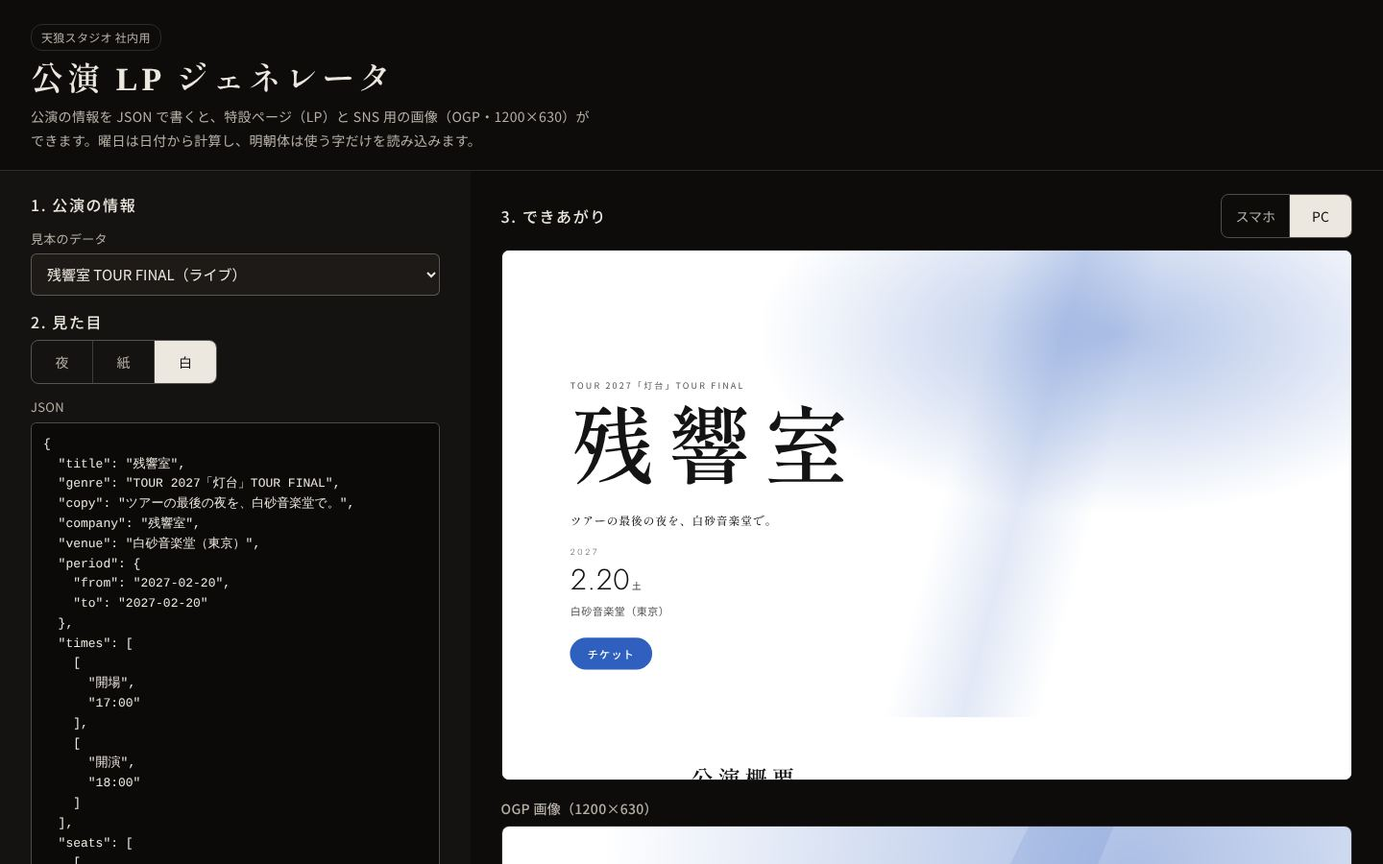
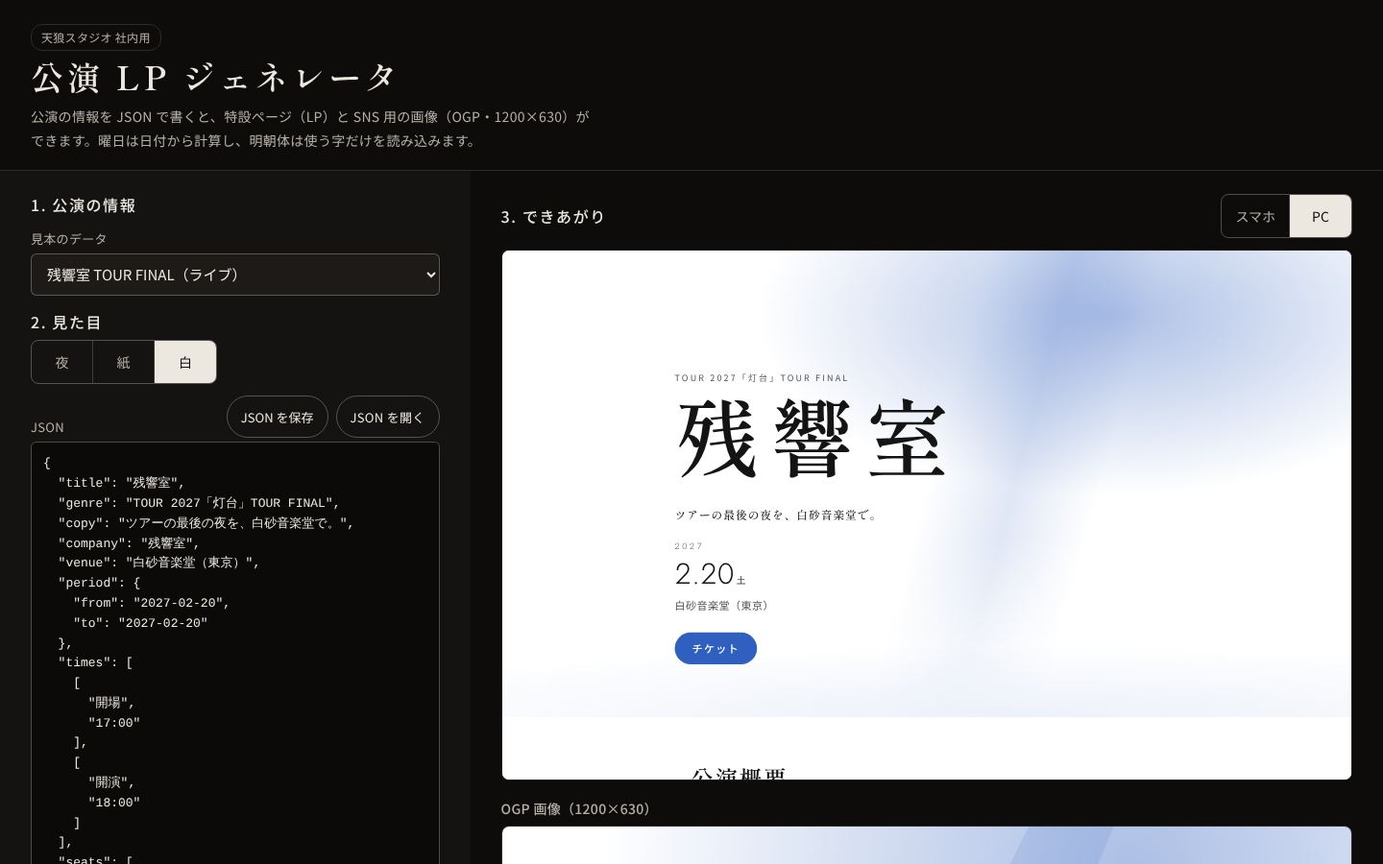
S02-10：審査1回目の指摘を反映（明朝のサブセットに英数字を入れる、長い題を OGP で2行に、長い名前のはみ出し、下書きの保存と JSON の保存・読み込み、ticket_url・url・access・contact、光の筋のフェードとスクロール連動）
Claude-Session: https://claude.ai/code/session_01BwmUGTgfPEj1Tu5124aDtq

diff --git a/studio/projects/S02-10-lpgen/site/app.js b/studio/projects/S02-10-lpgen/site/app.js
@@ -13,6 +13,7 @@ const KEYS = [
   ['title', '必須。公演名'], ['kana', '読み（題の上に小さく）'], ['genre', '種類・回数など'], ['copy', '一行のコピー'], ['story', 'あらすじ（段落は改行2つ）'],
   ['company', '必須。主催・団体'], ['venue', '必須。劇場'], ['period', '必須。{"from":"YYYY-MM-DD","to":"YYYY-MM-DD"}。曜日は自動'],
   ['times', '[["平日","19:00"], …]'], ['seats', '[["席種","料金"], …]'], ['sale', '一般発売日 YYYY-MM-DD'], ['cast', '[["名前","役"], …]'], ['credits', '[["役割","名前"], …]'],
+  ['ticket_url', 'チケット購入先の URL（https://…）。ないときはページ内のチケットの節へ'], ['url', 'このページを置く URL（https://…/）。og:url と og:image を自動で入れる'], ['access', '劇場の住所・行き方'], ['contact', '問い合わせ先'],
   ['accent', '差し色 #RRGGBB（背景との明暗比 3 以上）'], ['note', '注記（架空・販売の有無など）'],
 ];
 // 項目の一覧は開いたときだけ作る（閉じているあいだは中身を持たない）
@@ -39,51 +40,66 @@ function check(src, theme) {
   const p = D.period || {}, a = parseDate(p.from), b = parseDate(p.to);
   if (!a || !b) E.push('period の from と to は "2027-03-05" の形の、ある日付で書いてください');
   else if (b < a) E.push('period の to が from より前になっています');
-  for (const k of ['times', 'seats', 'cast', 'credits']) if (D[k] != null && !pairs(D[k])) E.push(`${k} は [["…","…"], …] の形（2つずつの文字の組）で書いてください`);
+  for (const k of ['times', 'seats', 'cast', 'credits']) { if (D[k] != null && !pairs(D[k])) E.push(`${k} は [["…","…"], …] の形（2つずつの文字の組）で書いてください`); else if (Array.isArray(D[k]) && !D[k].length) W.push(`${k} が空なので、その行・節は出しません`); }
+  for (const k of ['ticket_url', 'url']) if (D[k] != null && !/^https:\/\/[^\s"<>]+$/.test(D[k])) E.push(`${k} は https:// で始まる URL で書いてください`);
+  if (typeof D.title === 'string' && [...D.title].length > 24) W.push('題が長いので、OGP 画像では2行に分けて組みます');
   if (D.sale != null) { const s = parseDate(D.sale); if (!s) E.push('sale は "2027-01-16" の形の、ある日付で書いてください'); else if (a && s > a) W.push('一般発売日が初日より後になっています'); }
   const known = new Set(KEYS.map(k => k[0])); for (const k of Object.keys(D)) if (!known.has(k)) W.push(`${k} という項目は使いません（つづりを確かめてください）`);
   if (D.accent != null) { if (!/^#[0-9a-fA-F]{6}$/.test(D.accent)) E.push('accent は #RRGGBB の形で書いてください'); else { const r = ratio(D.accent, THEMES[theme].bg); if (r < 3) W.push(`差し色と背景の明暗比が ${r.toFixed(1)} です。3 以上にすると、ボタンや日付が読みやすくなります`); } }
   if (!D.note) W.push('note（架空の公演か、販売があるか）を書くことをすすめます');
   if (!D.seats) W.push('seats がないので、チケットの節は出ません');
+  if (!D.ticket_url) W.push('ticket_url がないので、「チケット」ボタンはページ内のチケットの節へ飛びます');
   return { E, W, D };
 }
 
 // 生成：LP（単体で開ける HTML）
 const MINCHO = 'https://fonts.googleapis.com/css2?family=Shippori+Mincho:wght@500;600&display=swap&text=';
-const charsOf = s => [...new Set([...s].filter(c => /[　-ヿ一-鿿＀-￯]/.test(c)))].sort().join('') + '0123456789.';
+// 和文の字に加えて、英数字と記号（U+0021〜U+007E）も必ず入れる（題に英字があると、そこだけ別の書体になる）
+const ASCII = Array.from({ length: 94 }, (_, i) => String.fromCharCode(33 + i)).join('');
+const charsOf = s => [...new Set([...s].filter(c => /[\u3000-\u30ff\u4e00-\u9fff\uff00-\uffef]/.test(c)))].sort().join('') + ASCII;
 function build(D, theme) {
-  const T = THEMES[theme], acc = D.accent || '#ffcf96', a = parseDate(D.period.from), b = parseDate(D.period.to), one = +a === +b, yr = a.getUTCFullYear();
-  const when = one ? `${md(a)}<small>${wd(a)}</small>` : `${md(a)}<small>${wd(a)}</small> — ${md(b)}<small>${wd(b)}</small>`;
-  const whenTxt = one ? `${yr}.${md(a)}（${wd(a)}）` : `${yr}.${md(a)}（${wd(a)}）— ${md(b)}（${wd(b)}）`;
-  const rows = (list) => list.map(([k, v]) => `<div><dt>${esc(k)}</dt><dd>${esc(v)}</dd></div>`).join('');
+  const T = THEMES[theme], acc = D.accent || '#ffcf96', a = parseDate(D.period.from), b = parseDate(D.period.to), one = +a === +b, yr = a.getUTCFullYear(), cross = b.getUTCFullYear() !== yr;
+  const has = k => Array.isArray(D[k]) && D[k].length > 0;
+  const endTxt = d => `${cross ? `${d.getUTCFullYear()}.` : ''}${md(d)}`;
+  const when = one ? `${md(a)}<small>${wd(a)}</small>` : `${md(a)}<small>${wd(a)}</small> — ${endTxt(b)}<small>${wd(b)}</small>`;
+  const whenTxt = one ? `${yr}.${md(a)}（${wd(a)}）` : `${yr}.${md(a)}（${wd(a)}）— ${endTxt(b)}（${wd(b)}）`;
+  const rows = list => list.map(([k, v]) => `<div><dt>${esc(k)}</dt><dd>${esc(v)}</dd></div>`).join('');
   const sale = D.sale ? parseDate(D.sale) : null;
   const sec = [];
   if (D.story) sec.push(`<section id="story"><h2>物語</h2>${String(D.story).split(/\n\s*\n/).map(t => `<p class="story">${esc(t)}</p>`).join('')}</section>`);
-  sec.push(`<section id="info"><h2>公演概要</h2><dl class="dl"><div><dt>期間</dt><dd>${whenTxt}</dd></div>${D.times ? `<div><dt>開演</dt><dd>${D.times.map(([k, v]) => `<span class="nw">${esc(k)} ${esc(v)}</span>`).join('　')}</dd></div>` : ''}<div><dt>劇場</dt><dd>${esc(D.venue)}</dd></div><div><dt>主催</dt><dd>${esc(D.company)}</dd></div></dl></section>`);
-  if (D.seats) sec.push(`<section id="ticket"><h2>チケット</h2>${sale ? `<p class="sale">${sale.getUTCFullYear()}.${md(sale)}<small>（${wd(sale)}）一般発売</small></p>` : ''}<ul class="price">${D.seats.map(([k, v]) => `<li><span>${esc(k)}</span><b>${esc(v)}</b></li>`).join('')}</ul></section>`);
-  if (D.cast) sec.push(`<section id="cast"><h2>出演</h2><ul class="cast">${D.cast.map(([n, r]) => `<li><span class="r">${esc(r)}</span><span class="n">${esc(n)}</span></li>`).join('')}</ul></section>`);
-  if (D.credits) sec.push(`<section id="staff"><h2>スタッフ</h2><dl class="dl">${rows(D.credits)}</dl></section>`);
-  const all = JSON.stringify(D) + '物語公演概要期間開演劇場主催チケット一般発売出演スタッフ（）—';
+  sec.push(`<section id="info"><h2>公演概要</h2><dl class="dl"><div><dt>期間</dt><dd>${whenTxt}</dd></div>${has('times') ? `<div><dt>時間</dt><dd>${D.times.map(([k, v]) => `<span class="nw">${esc(k)} ${esc(v)}</span>`).join('　')}</dd></div>` : ''}<div><dt>劇場</dt><dd>${esc(D.venue)}</dd></div>${D.access ? `<div><dt>行き方</dt><dd>${esc(D.access)}</dd></div>` : ''}<div><dt>主催</dt><dd>${esc(D.company)}</dd></div>${D.contact ? `<div><dt>問い合わせ</dt><dd>${esc(D.contact)}</dd></div>` : ''}</dl></section>`);
+  if (has('seats')) sec.push(`<section id="ticket"><h2>チケット</h2>${sale ? `<p class="sale">${sale.getUTCFullYear()}.${md(sale)}<small>（${wd(sale)}）一般発売</small></p>` : ''}<ul class="price">${D.seats.map(([k, v]) => `<li><span>${esc(k)}</span><b>${esc(v)}</b></li>`).join('')}</ul>${D.ticket_url ? `<p><a class="btn" href="${esc(D.ticket_url)}" rel="noopener">チケットを申し込む</a></p>` : ''}</section>`);
+  if (has('cast')) sec.push(`<section id="cast"><h2>出演</h2><ul class="cast">${D.cast.map(([n, r]) => `<li><span class="r">${esc(r)}</span><span class="n">${esc(n)}</span></li>`).join('')}</ul></section>`);
+  if (has('credits')) sec.push(`<section id="staff"><h2>スタッフ</h2><dl class="dl">${rows(D.credits)}</dl></section>`);
+  const all = JSON.stringify(D) + '物語公演概要期間時間劇場行き方主催問い合わせチケット申し込む一般発売出演スタッフ（）—';
+  // 題の大きさ：字数（英字は 0.6 字）から、幅に収まる大きさを決める
+  const n = [...D.title].reduce((t, c) => t + (/[ -~]/.test(c) ? .62 : 1) + .14, 0), vw = Math.min(15, 84 / Math.max(1, n)).toFixed(2), px = Math.min(128, Math.round(1180 / Math.max(1, n)));
   const css = `:root{color-scheme:${theme === 'night' ? 'dark' : 'light'};--bg:${T.bg};--ink:${T.ink};--sub:${T.sub};--line:${T.line};--card:${T.card};--acc:${acc}}*{box-sizing:border-box}body{margin:0;background:var(--bg);color:var(--ink);font:400 16px/1.9 "Noto Sans JP","Hiragino Sans",sans-serif;letter-spacing:.04em;line-break:strict;word-break:auto-phrase;overflow-wrap:anywhere;-webkit-font-smoothing:antialiased}
-.hero{position:relative;min-height:88svh;display:flex;flex-direction:column;justify-content:flex-end;padding:120px 24px 48px;overflow:hidden;isolation:isolate}
-.hero::before{content:"";position:absolute;inset:0;z-index:-1;background:radial-gradient(60% 55% at 72% 18%,color-mix(in srgb,var(--acc) 38%,transparent),transparent 70%),linear-gradient(105deg,transparent 52%,color-mix(in srgb,var(--acc) 14%,transparent) 60%,transparent 68%)}
-.genre{margin:0;font-size:13px;letter-spacing:.24em;color:var(--sub)}h1{margin:10px 0 0;font:600 clamp(52px,15vw,128px)/1.15 "Shippori Mincho",serif;letter-spacing:.14em}.kana{display:block;margin-bottom:10px;font:400 13px/1 "Noto Sans JP",sans-serif;letter-spacing:.5em;color:var(--sub)}
+.hero{position:relative;min-height:88svh;display:flex;flex-direction:column;justify-content:flex-end;padding:120px 24px 56px;overflow:hidden;isolation:isolate}.hero>.in{width:100%;max-width:760px;margin:0 auto;display:flex;flex-direction:column}
+.hero::before,.hero::after{content:"";position:absolute;inset:0;z-index:-1;pointer-events:none}
+.hero::before{background:radial-gradient(60% 55% at 72% 14%,color-mix(in srgb,var(--acc) 40%,transparent),transparent 70%),linear-gradient(var(--beam,105deg),transparent 50%,color-mix(in srgb,var(--acc) 15%,transparent) 59%,transparent 68%);-webkit-mask-image:linear-gradient(to bottom,#000 62%,transparent);mask-image:linear-gradient(to bottom,#000 62%,transparent);animation:on 1.6s cubic-bezier(.2,.7,.2,1) both}
+.hero::after{background:radial-gradient(120% 22% at 60% 100%,color-mix(in srgb,var(--acc) 9%,transparent),transparent 70%)}
+@keyframes on{from{opacity:0}}@property --beam{syntax:"<angle>";inherits:false;initial-value:105deg}
+@supports (animation-timeline:scroll()){.hero::before{animation:on 1.6s cubic-bezier(.2,.7,.2,1) both,sweep linear both;animation-timeline:auto,scroll();animation-range:normal,0 100vh}@keyframes sweep{to{--beam:96deg}}}
+@media (prefers-reduced-motion:reduce){.hero::before{animation:none}}
+.genre{margin:0;font-size:13px;letter-spacing:.24em;color:var(--sub)}h1{margin:10px 0 0;font:600 clamp(34px,${vw}vw,${px}px)/1.18 "Shippori Mincho",serif;letter-spacing:.12em;word-break:keep-all;overflow-wrap:break-word}.kana{display:block;margin-bottom:10px;font:400 13px/1 "Noto Sans JP",sans-serif;letter-spacing:.5em;color:var(--sub)}
 .copy{margin:20px 0 0;max-width:30em;font:500 17px/1.9 "Shippori Mincho",serif;letter-spacing:.08em}.when{margin:22px 0 0;font:300 clamp(28px,7.6vw,44px)/1.25 Jost,sans-serif;font-variant-numeric:tabular-nums}.when small{font:500 14px/1 "Noto Sans JP",sans-serif;color:var(--sub);margin:0 6px 0 3px}.yr{display:block;font:300 13px/1 Jost,sans-serif;letter-spacing:.3em;color:var(--sub);margin-bottom:8px}.where{margin:4px 0 0;color:var(--sub)}
 .btn{display:inline-flex;align-items:center;min-height:48px;margin-top:26px;padding:0 26px;border-radius:24px;background:var(--acc);color:${ratio(acc, '#111111') > ratio(acc, '#ffffff') ? '#111' : '#fff'};text-decoration:none;font-weight:500;letter-spacing:.12em;align-self:flex-start}
-main{max-width:760px;margin:0 auto;padding:0 24px}section{padding:72px 0 0}h2{margin:0 0 24px;font:600 clamp(26px,7vw,34px)/1.3 "Shippori Mincho",serif;letter-spacing:.2em}.story{font:500 16px/2 "Shippori Mincho",serif;margin:0 0 1em}
-.dl{margin:0}.dl div{display:grid;grid-template-columns:5em 1fr;gap:12px;padding:12px 0;border-bottom:1px solid var(--line)}.dl dt{font-size:13px;color:var(--sub);letter-spacing:.14em}.dl dd{margin:0}.nw{white-space:nowrap}
-.sale{margin:0 0 16px;font:300 26px/1.3 Jost,sans-serif}.sale small{font:500 14px/1 "Noto Sans JP",sans-serif;color:var(--sub);margin-left:4px}.price{list-style:none;margin:0;padding:0}.price li{display:flex;justify-content:space-between;align-items:baseline;padding:14px 0;border-bottom:1px solid var(--line);font:600 18px/1.4 "Shippori Mincho",serif}.price b{font:400 22px/1 Jost,sans-serif}
-.cast{list-style:none;margin:0;padding:0;display:grid;grid-template-columns:repeat(auto-fill,minmax(150px,1fr));gap:12px}.cast li{padding:16px;background:var(--card);border-radius:6px;border-top:2px solid var(--acc)}.cast .r{display:block;font-size:12px;color:var(--sub)}.cast .n{display:block;margin-top:4px;font:600 20px/1.4 "Shippori Mincho",serif;letter-spacing:.12em;white-space:nowrap}
+main{max-width:760px;margin:0 auto;padding:0 24px}section{padding:72px 0 0}h2{margin:0 0 24px;font:600 clamp(26px,7vw,34px)/1.3 "Shippori Mincho",serif;letter-spacing:.08em}.story{font:500 16px/2 "Shippori Mincho",serif;margin:0 0 1em}
+.dl{margin:0}.dl div{display:grid;grid-template-columns:5.5em 1fr;gap:12px;padding:12px 0;border-bottom:1px solid var(--line)}.dl dt{font-size:13px;color:var(--sub);letter-spacing:.1em}.dl dd{margin:0}.nw{white-space:nowrap}
+.sale{margin:0 0 16px;font:300 26px/1.3 Jost,sans-serif}.sale small{font:500 14px/1 "Noto Sans JP",sans-serif;color:var(--sub);margin-left:4px}.price{list-style:none;margin:0;padding:0}.price li{display:flex;justify-content:space-between;align-items:baseline;gap:12px;padding:14px 0;border-bottom:1px solid var(--line);font:600 18px/1.4 "Shippori Mincho",serif}.price b{font:400 22px/1 Jost,sans-serif;white-space:nowrap}
+.cast{list-style:none;margin:0;padding:0;display:grid;grid-template-columns:repeat(auto-fill,minmax(min(150px,100%),1fr));gap:12px}.cast li{padding:16px;background:var(--card);border-radius:6px;border-top:2px solid var(--acc)}.cast .r{display:block;font-size:12px;color:var(--sub)}.cast .n{display:block;margin-top:4px;font:600 clamp(16px,5vw,20px)/1.4 "Shippori Mincho",serif;letter-spacing:.1em;word-break:keep-all;overflow-wrap:break-word}
 footer{max-width:760px;margin:96px auto 0;padding:24px 24px 56px;border-top:1px solid var(--line);font-size:13px;color:var(--sub)}footer p{margin:0 0 4px}a:focus-visible{outline:2px solid var(--acc);outline-offset:3px}
-@media(min-width:900px){.hero{padding:140px 8vw 72px}}`;
+@media(min-width:900px){.hero{padding:140px 24px 80px}}`;
+  const og = D.url ? `<meta property="og:url" content="${esc(D.url)}"><meta property="og:image" content="${esc(new URL(`${slug(D)}-ogp.png`, D.url).href)}">` : '';
   const html = `<!doctype html>
 <html lang="ja"><head><meta charset="utf-8"><meta name="viewport" content="width=device-width,initial-scale=1">
 <title>${esc(D.title)}｜${esc(D.genre || D.company)}</title>
 <meta name="description" content="${esc(D.copy || `${D.title} ${whenTxt} ${D.venue}`)}">
-<meta property="og:title" content="${esc(D.title)}"><meta property="og:description" content="${esc(`${whenTxt} ${D.venue}`)}"><meta name="twitter:card" content="summary_large_image">
+<meta property="og:type" content="website"><meta property="og:title" content="${esc(D.title)}"><meta property="og:description" content="${esc(`${whenTxt} ${D.venue}`)}">${og}<meta name="twitter:card" content="summary_large_image">
 <link rel="preconnect" href="https://fonts.googleapis.com"><link rel="stylesheet" href="${MINCHO}${encodeURIComponent(charsOf(all))}"><link rel="stylesheet" href="https://fonts.googleapis.com/css2?family=Noto+Sans+JP:wght@400;500&family=Jost:wght@300;400&display=swap">
 <style>${css}</style></head><body>
-<header class="hero">${D.genre ? `<p class="genre">${esc(D.genre)}</p>` : ''}<h1>${D.kana ? `<span class="kana">${esc(D.kana)}</span>` : ''}${esc(D.title)}</h1>${D.copy ? `<p class="copy">${esc(D.copy)}</p>` : ''}<p class="when"><span class="yr">${yr}</span>${when}</p><p class="where">${esc(D.venue)}</p>${D.seats ? '<a class="btn" href="#ticket">チケット</a>' : ''}</header>
+<header class="hero"><div class="in">${D.genre ? `<p class="genre">${esc(D.genre)}</p>` : ''}<h1>${D.kana ? `<span class="kana">${esc(D.kana)}</span>` : ''}${esc(D.title)}</h1>${D.copy ? `<p class="copy">${esc(D.copy)}</p>` : ''}<p class="when"><span class="yr">${yr}</span>${when}</p><p class="where">${esc(D.venue)}</p>${has('seats') || D.ticket_url ? `<a class="btn" href="${D.ticket_url ? esc(D.ticket_url) : '#ticket'}"${D.ticket_url ? ' rel="noopener"' : ''}>チケット</a>` : ''}</div></header>
 <main>${sec.join('')}</main>
 <footer><p>主催　${esc(D.company)}</p>${D.note ? `<p>${esc(D.note)}</p>` : ''}</footer>
 </body></html>`;
@@ -98,20 +114,25 @@ async function drawOG(D, theme, chars) {
   g.fillStyle = T.bg; g.fillRect(0, 0, W, H);
   const rg = g.createRadialGradient(W * .74, H * .1, 0, W * .74, H * .1, W * .62); rg.addColorStop(0, acc + '66'); rg.addColorStop(1, acc + '00'); g.fillStyle = rg; g.fillRect(0, 0, W, H);
   g.save(); g.globalAlpha = .12; g.fillStyle = acc; g.beginPath(); g.moveTo(W * .62, 0); g.lineTo(W * .72, 0); g.lineTo(W * .5, H); g.lineTo(W * .36, H); g.closePath(); g.fill(); g.restore();
+  // 長い文字は横に潰さず、末尾を「…」で切る
+  const fit = (t, w) => { if (g.measureText(t).width <= w) return t; let c = [...t]; while (c.length && g.measureText(c.join('') + '…').width > w) c.pop(); return c.join('') + '…'; };
   const X = 80; g.textBaseline = 'alphabetic'; g.fillStyle = T.sub; g.font = '500 26px "Noto Sans JP", sans-serif';
-  if (D.genre) g.fillText(D.genre, X, 120, W - 160);
+  if (D.genre) g.fillText(fit(D.genre, W - 160), X, 110);
   // 題：幅に収まる大きさに（最大 150px）
-  let fs = 150; g.font = `600 ${fs}px "Shippori Mincho", serif`; const sp = .12;
-  const tw = s => g.measureText(s).width + s.length * fs * sp; while (tw(D.title) > W - 160 && fs > 48) { fs -= 4; g.font = `600 ${fs}px "Shippori Mincho", serif`; }
-  g.fillStyle = T.ink; let x = X; for (const c of D.title) { g.fillText(c, x, 150 + fs); x += g.measureText(c).width + fs * sp; }
-  const a = parseDate(D.period.from), b = parseDate(D.period.to), one = +a === +b, y2 = 150 + fs + 110;
+  // 題：1行で 72px 以上に収まればそのまま、収まらなければ「〜・空白・読点」か真ん中で2行に分ける
+  const sp = .1, font = f => { g.font = `600 ${f}px "Shippori Mincho", serif`; }, tw = (t, f) => { font(f); return [...t].reduce((w, c) => w + g.measureText(c).width + f * sp, 0); };
+  const fitSize = (lines, max, min) => { let f = max; while (f > min && Math.max(...lines.map(l => tw(l, f))) > W - 160) f -= 2; return f; };
+  let lines = [D.title], fs = fitSize(lines, 150, 40);
+  if (fs < 72) { const cs = [...D.title], mid = cs.length / 2; let cut = -1, best = 1e9; cs.forEach((c, i) => { if (/[〜～ 　、・:：]/.test(c) && Math.abs(i - mid) < best) { best = Math.abs(i - mid); cut = i; } }); if (cut < 0) cut = Math.round(mid); lines = [cs.slice(0, cut).join('').trim(), cs.slice(cut).join('').replace(/^[ 　、]/, '').trim()].filter(Boolean); fs = fitSize(lines, 110, 40); }
+  g.fillStyle = T.ink; lines.forEach((l, k) => { font(fs); let x = X; for (const c of l) { g.fillText(c, x, 140 + fs + k * fs * 1.2); x += g.measureText(c).width + fs * sp; } });
+  const a = parseDate(D.period.from), b = parseDate(D.period.to), one = +a === +b, y2 = Math.min(H - 150, 140 + fs + (lines.length - 1) * fs * 1.2 + 96);
   g.font = '300 56px Jost, sans-serif'; g.fillStyle = T.ink; let s = `${a.getUTCFullYear()}.${md(a)}`; g.fillText(s, X, y2); let px = X + g.measureText(s).width + 8;
   g.font = '500 24px "Noto Sans JP", sans-serif'; g.fillStyle = T.sub; g.fillText(wd(a), px, y2); px += g.measureText(wd(a)).width + 18;
-  if (!one) { g.font = '300 56px Jost, sans-serif'; g.fillStyle = T.ink; s = `— ${md(b)}`; g.fillText(s, px, y2); px += g.measureText(s).width + 8; g.font = '500 24px "Noto Sans JP", sans-serif'; g.fillStyle = T.sub; g.fillText(wd(b), px, y2); }
-  g.font = '500 28px "Noto Sans JP", sans-serif'; g.fillStyle = T.ink; g.fillText(D.venue, X, y2 + 52, W - 160);
+  if (!one) { g.font = '300 56px Jost, sans-serif'; g.fillStyle = T.ink; s = `— ${b.getUTCFullYear() !== a.getUTCFullYear() ? b.getUTCFullYear() + '.' : ''}${md(b)}`; g.fillText(s, px, y2); px += g.measureText(s).width + 8; g.font = '500 24px "Noto Sans JP", sans-serif'; g.fillStyle = T.sub; g.fillText(wd(b), px, y2); }
+  g.font = '500 28px "Noto Sans JP", sans-serif'; g.fillStyle = T.ink; g.fillText(fit(D.venue, W - 160), X, y2 + 52);
   g.fillStyle = acc; g.fillRect(X, H - 64, 40, 3);
-  g.font = '400 20px "Noto Sans JP", sans-serif'; g.fillStyle = T.sub; g.fillText(D.company, X + 56, H - 56, 520);
-  if (D.note) { g.textAlign = 'right'; g.fillText(D.note, W - 80, H - 56, 520); g.textAlign = 'left'; }
+  g.font = '400 20px "Noto Sans JP", sans-serif'; g.fillStyle = T.sub; g.fillText(fit(D.company, 440), X + 56, H - 56);
+  if (D.note) { g.textAlign = 'right'; g.fillText(fit(D.note, 540), W - 80, H - 56); g.textAlign = 'left'; }
 }
 
 // 画面
@@ -120,8 +141,16 @@ presets.forEach((p, i) => { const o = el('option', null, p.label); o.value = i; 
 let theme = presets[0].theme, out = null;
 const themeBtns = Object.entries(THEMES).map(([k, t]) => { const b = el('button', null, t.name); b.type = 'button'; b.dataset.k = k; b.setAttribute('aria-pressed', String(k === theme)); b.addEventListener('click', () => { theme = k; themeBtns.forEach(x => x.setAttribute('aria-pressed', String(x.dataset.k === k))); update(); }); $('themes').append(b); return b; });
 const setTheme = k => { theme = k; themeBtns.forEach(x => x.setAttribute('aria-pressed', String(x.dataset.k === k))); };
-function load(i) { $('src').value = JSON.stringify(presets[i].data, null, 2); setTheme(presets[i].theme); update(); }
-$('preset').addEventListener('change', () => load(+$('preset').value));
+let dirty = false, lastPreset = 0;
+const store = { get: k => { try { return localStorage.getItem(k); } catch { return null; } }, set: (k, v) => { try { localStorage.setItem(k, v); } catch {} } };
+function load(i) { $('src').value = JSON.stringify(presets[i].data, null, 2); setTheme(presets[i].theme); dirty = false; lastPreset = i; update(); }
+$('preset').addEventListener('change', () => {
+  // 手で書き換えたあとは、置き換える前に確かめる
+  if (dirty && !confirm('編集中の内容を、見本のデータに置き換えますか？（置き換える前の内容は「JSON を保存」で残せます）')) { $('preset').value = lastPreset; return; }
+  load(+$('preset').value);
+});
+$('save-json').addEventListener('click', () => save(new Blob([$('src').value], { type: 'application/json' }), `${curD ? slug(curD) : 'lp'}.json`));
+$('open-json').addEventListener('change', async e => { const f = e.target.files[0]; if (!f) return; $('src').value = await f.text(); dirty = true; e.target.value = ''; update(); });
 
 // プレビューの幅（実寸で描いて縮める）
 let pw = 390;
@@ -133,7 +162,7 @@ function fitFrame() {
 new ResizeObserver(fitFrame).observe($('frame'));
 
 let tm = 0;
-$('src').addEventListener('input', () => { clearTimeout(tm); tm = setTimeout(update, 350); });
+$('src').addEventListener('input', () => { dirty = true; clearTimeout(tm); tm = setTimeout(() => { update(); store.set('lpgen-draft', JSON.stringify({ src: $('src').value, theme })); }, 350); });
 async function update() {
   const { E, W, D } = check($('src').value, theme), box = $('msgs'); box.textContent = '';
   $('src').setAttribute('aria-invalid', String(E.length > 0));
@@ -154,10 +183,12 @@ let curD = null, fmHref = '';
 // 明朝の字の追加読み込み：新しい stylesheet が読み終わってから描く（読み終わる前に描くと OGP の題が代わりの書体になる）
 function useMincho(chars) {
   const href = MINCHO + encodeURIComponent(chars); if (href === fmHref) return Promise.resolve(); fmHref = href;
-  return new Promise(res => { const l = document.createElement('link'); l.rel = 'stylesheet'; l.href = href; l.onload = l.onerror = () => res(); document.head.append(l); setTimeout(res, 4000); });
+  return new Promise(res => { const l = $('fm'); l.onload = l.onerror = () => res(); l.href = href; setTimeout(res, 4000); });   // 1本の link の href だけを差し替える
 }
 const slug = D => (D.period.from || 'lp').replaceAll('-', '') + '-lp';
 const save = (blob, name) => { const a = document.createElement('a'); a.href = URL.createObjectURL(blob); a.download = name; document.body.append(a); a.click(); setTimeout(() => { URL.revokeObjectURL(a.href); a.remove(); }, 1000); };
 $('dl-html').addEventListener('click', () => out && save(new Blob([out.html], { type: 'text/html' }), `${slug(curD)}.html`));
 $('dl-png').addEventListener('click', () => cv.toBlob(b => b && save(b, `${slug(curD)}-ogp.png`), 'image/png'));
-load(0);
+// 前回の下書きがあれば戻す（この端末のブラウザの中だけに残る）
+const draft = (() => { try { return JSON.parse(store.get('lpgen-draft') || 'null'); } catch { return null; } })();
+if (draft && draft.src) { $('src').value = draft.src; setTheme(THEMES[draft.theme] ? draft.theme : 'night'); dirty = true; update(); $('restored').hidden = false; } else load(0);

diff --git a/studio/projects/S02-10-lpgen/site/index.html b/studio/projects/S02-10-lpgen/site/index.html
@@ -7,7 +7,7 @@
 <meta name="description" content="公演の情報を JSON で書くと、特設ページと OGP 画像ができる社内用の道具の見本（天狼スタジオ制作）。">
 <link rel="preconnect" href="https://fonts.googleapis.com">
 <link rel="stylesheet" href="https://fonts.googleapis.com/css2?family=Noto+Sans+JP:wght@400;500;700&family=Jost:wght@300;400&display=swap">
-<link id="fm" rel="stylesheet" href="">
+<link id="fm" rel="stylesheet" href="data:text/css,">
 <link rel="stylesheet" href="style.css">
 </head>
 <body>
@@ -23,7 +23,8 @@
       <label class="f">見本のデータ<select id="preset"></select></label>
     </div>
     <fieldset class="themes"><legend>2. 見た目</legend><div id="themes" class="seg"></div></fieldset>
-    <label class="f grow" for="src">JSON</label>
+    <div class="jhead"><label class="f" for="src">JSON</label><div class="jbtn"><button type="button" id="save-json" class="sub">JSON を保存</button><label class="sub file">JSON を開く<input type="file" id="open-json" accept="application/json,.json"></label></div></div>
+    <p class="restored" id="restored" hidden>前回の下書きを戻しました（この端末にだけ残っています）</p>
     <textarea id="src" spellcheck="false" autocomplete="off" autocapitalize="off" aria-describedby="msgs keys"></textarea>
     <div id="msgs" class="msgs" role="status" aria-live="polite"></div>
     <details class="keys" id="keys"><summary>書ける項目</summary><dl id="keylist"></dl></details>

diff --git a/studio/projects/S02-10-lpgen/site/style.css b/studio/projects/S02-10-lpgen/site/style.css
@@ -59,3 +59,11 @@ textarea[aria-invalid="true"] { border-color: var(--err); }
   .ed, .pv { padding: 24px 32px; }
   textarea { height: calc(100svh - 360px); }
 }
+.jhead { display: flex; justify-content: space-between; align-items: end; gap: 8px; flex-wrap: wrap; }
+.jbtn { display: flex; gap: 8px; }
+.sub { display: inline-flex; align-items: center; min-height: 44px; padding: 0 14px; border: 1px solid rgba(236, 231, 223, .3); border-radius: 22px; background: none; color: var(--ink); font: 400 13px/1 var(--sans); cursor: pointer; }
+.sub:hover { border-color: var(--amber); }
+.file { position: relative; }
+.file input { position: absolute; width: 1px; height: 1px; opacity: 0; }
+.file:focus-within { outline: 2px solid var(--amber); outline-offset: 3px; }
+.restored { margin: 6px 0 0; font-size: 12px; color: var(--amber); }
